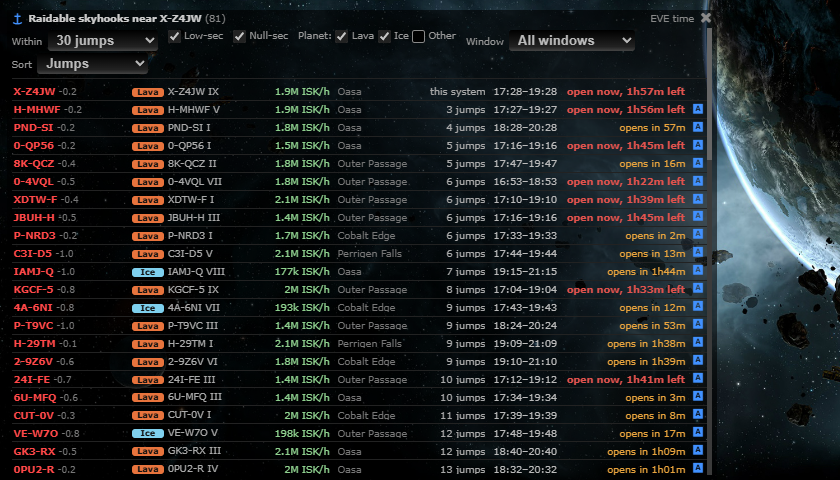
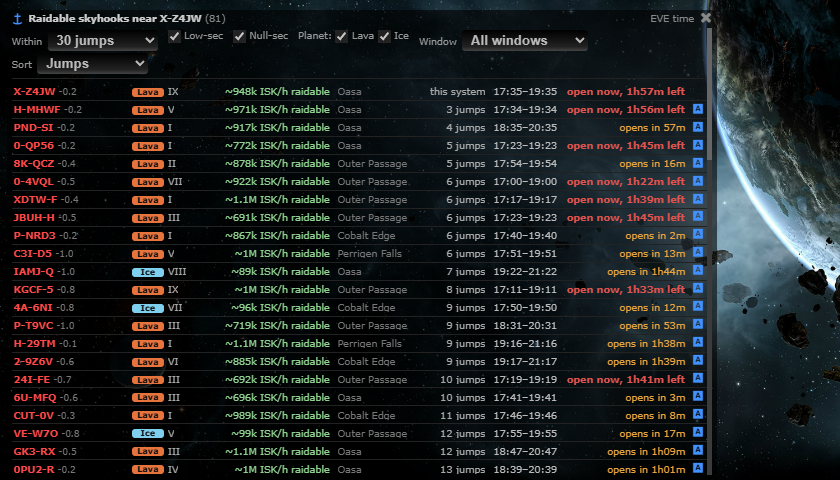
Skyhooks planet value: show the raidable half, unknown planets never hidden, generator records SDE build, load-failure note

diff --git a/app/js/fork/skyhooks-panel.js b/app/js/fork/skyhooks-panel.js
@@ -7,7 +7,7 @@ const skyhooksPanel = {
 	// 15 minutes per IP). Jumps use guidance's costs (the user's route security preference and avoid list). Saved per user in
 	// options.skyhooksPanel = {enabled (the icon), clickOpen, maxJumps, low, null, window, soonHours, sort, position}; a
 	// missing key means the default (icon on, opens on click, 10 jumps, low-sec and null-sec, opens within 2 h, by jumps).
-	// Also {lava, ice, other} (planet filter; lava and ice on) and sort "value": planet type, name and yield come from the static
+	// Also {lava, ice} (planet filter; both on) and sort "value": planet type, name and yield come from the static
 	// public/skyhooks-data/planets.json (SDE), see planetInfo.
 	// Keep `const skyhooksPanel` on the first line: the test helper strips it to define a global.
 	WIDGET_ID: "skyhooksWidget",
@@ -18,7 +18,7 @@ const skyhooksPanel = {
 	REDRAW_MS: 30000,
 	DEFAULT_SIZE: { x: 12, y: 8 },
 	MIN_SIZE: { x: 5, y: 3 },
-	DEFAULTS: { enabled: true, clickOpen: true, maxJumps: 10, low: true, null: true, lava: true, ice: true, other: false, window: "soon", soonHours: 2, sort: "jumps" },
+	DEFAULTS: { enabled: true, clickOpen: true, maxJumps: 10, low: true, null: true, lava: true, ice: true, window: "soon", soonHours: 2, sort: "jumps" },
 	MAX_JUMPS_CHOICES: [3, 5, 10, 15, 20, 30],
 	MAX_SEARCH_JUMPS: 60,       // "any distance" still stops here
 	WINDOWS: ["now", "soon", "all"],
@@ -49,7 +49,6 @@ const skyhooksPanel = {
 			null: s.null !== false,
 			lava: s.lava !== false,
 			ice: s.ice !== false,
-			other: s.other === true,
 			window: skyhooksPanel.WINDOWS.indexOf(s.window) >= 0 ? s.window : d.window,
 			soonHours: isFinite(soonHours) && soonHours > 0 && soonHours <= 168 ? soonHours : d.soonHours,
 			sort: skyhooksPanel.SORTS.indexOf(s.sort) >= 0 ? s.sort : d.sort
@@ -134,30 +133,31 @@ const skyhooksPanel = {
 		return out;
 	},
 
-	/** {kind: "lava"|"ice"|"other"|"unknown", name (system + roman number, "" when unknown), reagent, perHour, isk} for a planet;
+	/** {kind: "lava"|"ice"|"unknown", name (system + roman number, "" when unknown), number (the roman number), reagent, perHour, isk} for a planet;
 	isk = estimated ISK per hour of all the reagent the planet produces (half of it ends up in the raidable surplus bay).
-	@param planets the parsed planets.json (null while it isn't loaded: kind is then "unknown") */
+	A planet the list doesn't know (or no list yet) is "unknown": never hidden by the Planet filter.
+	@param planets the parsed planets.json (null while it isn't loaded) */
 	planetInfo: function(planets, planetID, systemName) {
-		if (!planets || typeof planets !== "object" || !planets.planets) { return { kind: "unknown", name: "", reagent: "", perHour: 0, isk: 0 }; }
+		if (!planets || typeof planets !== "object" || !planets.planets) { return { kind: "unknown", name: "", number: "", reagent: "", perHour: 0, isk: 0 }; }
 		const p = planets.planets[planetID];
 		const reagent = p && planets.reagents ? planets.reagents[p[0]] : null;
-		if (!p || !reagent || (p[0] !== 1 && p[0] !== 2)) { return { kind: "other", name: "", reagent: "", perHour: 0, isk: 0 }; }
+		if (!p || !reagent || (p[0] !== 1 && p[0] !== 2)) { return { kind: "unknown", name: "", number: "", reagent: "", perHour: 0, isk: 0 }; }
 		const perHour = Number(p[1]) || 0;
 		const numeral = skyhooksPanel.roman(p[2]);
 		return {
 			kind: p[0] === 1 ? "lava" : "ice",
 			name: systemName && numeral ? systemName + " " + numeral : "",
+			number: numeral,
 			reagent: String(reagent.name || ""),
 			perHour: perHour,
 			isk: perHour * (Number(reagent.price) || 0)
 		};
 	},
 
-	/** Whether a planet kind passes the lava / ice / other checkboxes (not yet known: always) */
+	/** Whether a planet kind passes the lava / ice checkboxes (an unknown planet: always) */
 	planetPasses: function(kind, settings) {
 		if (kind === "lava") { return settings.lava; }
 		if (kind === "ice") { return settings.ice; }
-		if (kind === "other") { return settings.other; }
 		return true;
 	},
 
@@ -335,7 +335,7 @@ const skyhooksPanel = {
 		if (unavailable) { return { kind: "unavailable", text: "Skyhook data unavailable." }; }
 		if (!count) { return { kind: "none", text: "No raidable skyhooks right now." }; }
 		if (!exits || !exits.length) { return { kind: "noexits", text: "No k-space exit on your chain yet: jumps are counted from the chain's k-space systems." }; }
-		return { kind: "filtered", text: "No raidable skyhook matches your options (" + (settings.maxJumps > 0 ? "within " + settings.maxJumps + " jumps" : "any distance") + "). Widen them above." };
+		return { kind: "filtered", text: "No raidable skyhook matches your options (" + (settings.maxJumps > 0 ? "within " + settings.maxJumps + " jumps" : "any distance") + (!settings.lava || !settings.ice ? ", " + (!settings.lava && !settings.ice ? "no planet type" : settings.lava ? "lava only" : "ice only") + " (Planet filter)" : "") + "). Widen them above." };
 	}
 };
 
@@ -344,6 +344,7 @@ if (typeof window !== "undefined" && typeof document !== "undefined" && typeof j
 		const sp = skyhooksPanel;
 		let planets = null;       // public/skyhooks-data/planets.json once loaded
 		let planetsLoading = false;
+		let planetsFailed = false;
 		let data = null;          // last answer of skyhooks.php: {skyhooks, fetched, stale, error}
 		let loadError = null;     // text when the last request failed
 		let skew = 0;             // server time - browser time, seconds
@@ -395,7 +396,9 @@ if (typeof window !== "undefined" && typeof document !== "undefined" && typeof j
 			if (planets || planetsLoading) { return; }
 			planetsLoading = true;
 			$.ajax({ url: sp.PLANETS_URL, dataType: "json", cache: true }).done(function(d) {
-				if (d && d.planets && typeof d.planets === "object") { planets = d; }
+				if (d && d.planets && typeof d.planets === "object") { planets = d; planetsFailed = false; } else { planetsFailed = true; }
+			}).fail(function() {
+				planetsFailed = true;
 			}).always(function() {
 				planetsLoading = false;
 				render();
@@ -434,10 +437,10 @@ if (typeof window !== "undefined" && typeof document !== "undefined" && typeof j
 				+ "<label title='Gate jumps from this system'>Within " + selectHtml("sky-max", jumpChoices, s.maxJumps) + "</label>"
 				+ "<label><input type='checkbox' class='sky-low'" + (s.low ? " checked" : "") + " /> Low-sec</label>"
 				+ "<label><input type='checkbox' class='sky-null'" + (s.null ? " checked" : "") + " /> Null-sec</label>"
-				+ "<span class='sky-planets' title='Lava planets give Magmatic Gas, ice planets Superionic Ice; other planets give no reagents'>Planet:"
+				+ "<span class='sky-planets' title='Lava planets give Magmatic Gas, ice planets Superionic Ice'>Planet:"
 				+ " <label><input type='checkbox' class='sky-lava'" + (s.lava ? " checked" : "") + " /> Lava</label>"
 				+ " <label><input type='checkbox' class='sky-ice'" + (s.ice ? " checked" : "") + " /> Ice</label>"
-				+ " <label><input type='checkbox' class='sky-other'" + (s.other ? " checked" : "") + " /> Other</label></span>"
+				+ "</span>"
 				+ "<label>Window " + selectHtml("sky-window", windowChoices, s.window)
 				+ (s.window === "soon" ? " " + selectHtml("sky-hours", sp.SOON_HOURS_CHOICES.map(function(h) { return [h, h + " h"]; }), s.soonHours) : "") + "</label>"
 				+ "<label>Sort " + selectHtml("sky-sort", [["jumps", "Jumps"], ["start", "Window start"], ["value", "Value"]], s.sort) + "</label>"
@@ -463,17 +466,17 @@ if (typeof window !== "undefined" && typeof document !== "undefined" && typeof j
 			const originName = (systemFor(origin) || {}).name || origin;
 			const secText = isFinite(Number(sys.security)) ? (Math.round(Number(sys.security) * 10) / 10 || 0).toFixed(1) : "";
 			const pl = r.planet || { kind: "unknown" };
-			const planetName = pl.name || (pl.kind === "other" ? "no reagents" : "");
+			const planetName = pl.number;	// the system's name is in the first column already; the full name is the tooltip
 			const badge = pl.kind === "lava" || pl.kind === "ice"
 				? "<span class='sky-planet sky-planet-" + pl.kind + "' title='" + esc((pl.kind === "lava" ? "Lava" : "Ice") + " planet: " + pl.reagent + ", " + pl.perHour.toLocaleString("en-US") + " units/hour. About half of it sits in the raidable surplus bay.") + "'>" + (pl.kind === "lava" ? "Lava" : "Ice") + "</span>"
-				: (pl.kind === "other" ? "<span class='sky-planet sky-planet-other' title='This planet gives power or workforce, no reagents to steal'>Other</span>" : "");
+				: "";
 			const value = pl.isk > 0
-				? "<span class='sky-value' title='" + esc(pl.reagent + ": " + pl.perHour.toLocaleString("en-US") + " units/hour at about " + sp.formatIsk(pl.isk / pl.perHour) + " ISK each (CCP average price). Half of it goes to the raidable surplus bay.") + "'>" + esc(sp.formatIsk(pl.isk)) + " ISK/h</span>"
+				? "<span class='sky-value' title='" + esc(pl.reagent + ": " + pl.perHour.toLocaleString("en-US") + " units/hour at about " + sp.formatIsk(pl.isk / pl.perHour) + " ISK each. The whole planet makes about " + sp.formatIsk(pl.isk) + " ISK/h; half of it goes to the raidable surplus bay. Estimate: CCP average price, SDE yield.") + "'>~" + esc(sp.formatIsk(pl.isk / 2)) + " ISK/h raidable</span>"
 				: "<span class='sky-value'></span>";
 			return "<li class='sky-row sky-" + st.state + "' data-systemid='" + esc(r.skyhook.systemID) + "' data-planet='" + esc(r.skyhook.planetID) + "'>"
 				+ "<span class='sky-system'><a class='" + esc(sys.systemTypeClass) + "' href='.?system=" + esc(encodeURIComponent(sys.name)) + "' title='View " + esc(sys.name) + "'>" + esc(sys.name || r.skyhook.systemID) + "</a>"
 				+ " <span class='sky-sec sky-sec-" + esc(sec) + "'>" + esc(secText) + "</span></span>"
-				+ "<span class='sky-planetcell'>" + badge + (planetName ? " <span class='sky-planetname'>" + esc(planetName) + "</span>" : "") + "</span>"
+				+ "<span class='sky-planetcell'" + (pl.name ? " title='" + esc("Planet " + pl.name) + "'" : "") + ">" + badge + (planetName ? " <span class='sky-planetname'>" + esc(planetName) + "</span>" : "") + "</span>"
 				+ value
 				+ "<span class='sky-region' title='" + esc(region) + "'>" + esc(region) + "</span>"
 				+ "<span class='sky-exit' title='Gate jumps from " + esc(originName) + "'>" + (r.nearest.jumps === 0 ? "this system" : r.nearest.jumps + (r.nearest.jumps === 1 ? " jump" : " jumps")) + "</span>"
@@ -513,6 +516,7 @@ if (typeof window !== "undefined" && typeof document !== "undefined" && typeof j
 			if (loadError) { notes.push(loadError + " Showing the last list."); }
 			else if (data.error && data.stale && !data.unavailable) { notes.push("ESI is not answering: this list is from " + sp.duration(t - data.fetched) + " ago."); }
 			else if (data.unavailable && data.error) { notes.push(data.error); }
+			if (planetsFailed && !planets) { notes.push("Planet details (lava / ice, value) could not be loaded."); }
 			if (!rows.length) { const empty = sp.emptyState(data.skyhooks.length, [{}], s, data.unavailable); notes.push(empty.text); }
 			$status.html(notes.map(sp.escape).join("<br/>")).toggleClass("sky-error", !!(loadError || data.unavailable || (data.error && data.stale)));
 			$list.html(rows.map(function(r) { return rowHtml(r, t); }).join(""));
@@ -677,7 +681,6 @@ if (typeof window !== "undefined" && typeof document !== "undefined" && typeof j
 			$doc.on("change", sel + " .sky-null", function() { save({ null: this.checked }); render(); });
 			$doc.on("change", sel + " .sky-lava", function() { save({ lava: this.checked }); render(); });
 			$doc.on("change", sel + " .sky-ice", function() { save({ ice: this.checked }); render(); });
-			$doc.on("change", sel + " .sky-other", function() { save({ other: this.checked }); render(); });
 			$doc.on("change", sel + " .sky-window", function() { save({ window: $(this).val() }); render(); });
 			$doc.on("change", sel + " .sky-hours", function() { save({ soonHours: Number($(this).val()) }); render(); });
 			$doc.on("change", sel + " .sky-sort", function() { save({ sort: $(this).val() }); render(); });

diff --git a/app/js-test/fork/skyhooks-panel.test.js b/app/js-test/fork/skyhooks-panel.test.js
@@ -13,9 +13,9 @@ const S = saved => skyhooksPanel.settings(saved);
 
 describe('Skyhooks panel', () => {
 	describe('settings', () => {
-		it('defaults', () => assert.deepEqual(S(undefined), { enabled: true, clickOpen: true, maxJumps: 10, low: true, null: true, lava: true, ice: true, other: false, window: 'soon', soonHours: 2, sort: 'jumps' }));
-		it('keeps valid values', () => assert.deepEqual(S({ enabled: false, clickOpen: false, maxJumps: 5, low: false, null: true, lava: false, ice: false, other: true, window: 'now', soonHours: 4, sort: 'value' }),
-			{ enabled: false, clickOpen: false, maxJumps: 5, low: false, null: true, lava: false, ice: false, other: true, window: 'now', soonHours: 4, sort: 'value' }));
+		it('defaults', () => assert.deepEqual(S(undefined), { enabled: true, clickOpen: true, maxJumps: 10, low: true, null: true, lava: true, ice: true, window: 'soon', soonHours: 2, sort: 'jumps' }));
+		it('keeps valid values', () => assert.deepEqual(S({ enabled: false, clickOpen: false, maxJumps: 5, low: false, null: true, lava: false, ice: false, window: 'now', soonHours: 4, sort: 'value' }),
+			{ enabled: false, clickOpen: false, maxJumps: 5, low: false, null: true, lava: false, ice: false, window: 'now', soonHours: 4, sort: 'value' }));
 		it('0 means any distance', () => assert.equal(S({ maxJumps: 0 }).maxJumps, 0));
 		it('rejects nonsense', () => assert.deepEqual(S({ maxJumps: -3, window: 'x', soonHours: 'abc', sort: 5 }), S({})));
 		it('string numbers from a select', () => assert.equal(S({ maxJumps: '15' }).maxJumps, 15));
@@ -282,6 +282,12 @@ describe('Skyhooks panel', () => {
 	describe('empty state', () => {
 		it('nothing from the server', () => assert.equal(skyhooksPanel.emptyState(0, [{}], S({})).kind, 'none'));
 		it('no exits', () => assert.equal(skyhooksPanel.emptyState(50, [], S({})).kind, 'noexits'));
+		it('filtered by the planet filter says so', () => {
+			assert.ok(skyhooksPanel.emptyState(3, [{}], S({ lava: false }), false).text.indexOf('ice only') > 0);
+			assert.ok(skyhooksPanel.emptyState(3, [{}], S({ ice: false }), false).text.indexOf('lava only') > 0);
+			assert.ok(skyhooksPanel.emptyState(3, [{}], S({ lava: false, ice: false }), false).text.indexOf('no planet type') > 0);
+			assert.equal(skyhooksPanel.emptyState(3, [{}], S({}), false).text.indexOf('Planet filter'), -1);
+		});
 		it('filtered out', () => {
 			const e = skyhooksPanel.emptyState(50, [{}], S({ maxJumps: 5 }));
 			assert.equal(e.kind, 'filtered');
@@ -308,7 +314,7 @@ describe('Skyhooks panel', () => {
 			assert.equal(skyhooksPanel.roman('x'), '');
 		});
 		it('lava planet: name, reagent, yield and value', () => {
-			assert.deepEqual(info(100, 'K4YZ-Y'), { kind: 'lava', name: 'K4YZ-Y IV', reagent: 'Magmatic Gas', perHour: 1000, isk: 2000000 });
+			assert.deepEqual(info(100, 'K4YZ-Y'), { kind: 'lava', name: 'K4YZ-Y IV', number: 'IV', reagent: 'Magmatic Gas', perHour: 1000, isk: 2000000 });
 		});
 		it('ice planet', () => {
 			const i = info(101, 'Tama');
@@ -317,19 +323,17 @@ describe('Skyhooks panel', () => {
 			assert.equal(i.isk, 200000);
 		});
 		it('no system name: no planet name', () => assert.equal(info(100).name, ''));
-		it('a planet that is not in the list gives no reagents: other', () => assert.deepEqual(info(999, 'X'), { kind: 'other', name: '', reagent: '', perHour: 0, isk: 0 }));
+		it('a planet that is not in the list is unknown', () => assert.deepEqual(info(999, 'X'), { kind: 'unknown', name: '', number: '', reagent: '', perHour: 0, isk: 0 }));
 		it('data not loaded: unknown', () => {
 			assert.equal(skyhooksPanel.planetInfo(null, 100, 'X').kind, 'unknown');
 			assert.equal(skyhooksPanel.planetInfo({}, 100, 'X').kind, 'unknown');
 		});
-		it('damaged entries are other', () => assert.equal(skyhooksPanel.planetInfo({ reagents: {}, planets: { 5: [1, 3, 1] } }, 5, 'X').kind, 'other'));
-		it('checkboxes: lava and ice on, other off by default', () => {
+		it('damaged entries are unknown', () => assert.equal(skyhooksPanel.planetInfo({ reagents: {}, planets: { 5: [1, 3, 1] } }, 5, 'X').kind, 'unknown'));
+		it('checkboxes: lava and ice on by default', () => {
 			assert.equal(skyhooksPanel.planetPasses('lava', S({})), true);
 			assert.equal(skyhooksPanel.planetPasses('ice', S({})), true);
-			assert.equal(skyhooksPanel.planetPasses('other', S({})), false);
 			assert.equal(skyhooksPanel.planetPasses('lava', S({ lava: false })), false);
 			assert.equal(skyhooksPanel.planetPasses('ice', S({ ice: false })), false);
-			assert.equal(skyhooksPanel.planetPasses('other', S({ other: true })), true);
 		});
 		it('unknown planet kind is never hidden (list not loaded yet)', () => assert.equal(skyhooksPanel.planetPasses('unknown', S({ lava: false, ice: false })), true));
 		it('formatIsk', () => {
@@ -346,28 +350,25 @@ describe('Skyhooks panel', () => {
 			const sys = id => Object.assign({ name: 'S' + id }, systems[id]);
 			const rows = (saved, p) => skyhooksPanel.rows(list, sys, id => near[id], T, S(saved), p === undefined ? planets : p);
 
-			it('default: lava and ice, planets without reagents hidden', () => {
-				assert.deepEqual(rows({}).map(r => r.skyhook.planetID), [101, 102, 100]);
+			it('default: lava, ice and planets the list does not know', () => {
+				assert.deepEqual(rows({}).map(r => r.skyhook.planetID), [101, 102, 100, 999]);
 			});
 			it('rows carry the planet', () => {
 				const r = rows({})[2];
 				assert.equal(r.planet.kind, 'lava');
 				assert.equal(r.planet.name, 'S1 IV');
+				assert.equal(r.planet.number, 'IV');
 			});
-			it('lava off', () => assert.deepEqual(rows({ lava: false }).map(r => r.skyhook.planetID), [101]));
-			it('ice off', () => assert.deepEqual(rows({ ice: false }).map(r => r.skyhook.planetID), [102, 100]));
-			it('other on', () => assert.deepEqual(rows({ other: true }).map(r => r.skyhook.planetID), [101, 102, 100, 999]));
-			it('all off: nothing (but other planets with other on)', () => {
-				assert.deepEqual(rows({ lava: false, ice: false }), []);
-				assert.deepEqual(rows({ lava: false, ice: false, other: true }).map(r => r.skyhook.planetID), [999]);
-			});
+			it('lava off (unknown planets stay)', () => assert.deepEqual(rows({ lava: false }).map(r => r.skyhook.planetID), [101, 999]));
+			it('ice off', () => assert.deepEqual(rows({ ice: false }).map(r => r.skyhook.planetID), [102, 100, 999]));
+			it('both off: only unknown planets are left', () => assert.deepEqual(rows({ lava: false, ice: false }).map(r => r.skyhook.planetID), [999]));
 			it('planet data not loaded: no planet filter', () => {
 				const r = rows({ lava: false, ice: false }, null);
 				assert.equal(r.length, 4);
 				assert.equal(r[0].planet.kind, 'unknown');
 			});
 			it('sort by value: highest ISK first, then jumps', () => {
-				assert.deepEqual(rows({ sort: 'value', other: true }).map(r => r.skyhook.planetID), [100, 102, 101, 999]);
+				assert.deepEqual(rows({ sort: 'value' }).map(r => r.skyhook.planetID), [100, 102, 101, 999]);
 			});
 			it('value sort needs no planet data (ties by jumps)', () => {
 				assert.deepEqual(rows({ sort: 'value' }, null).map(r => r.skyhook.planetID), [101, 102, 100, 999]);

diff --git a/app/css/fork/skyhooks-panel.css b/app/css/fork/skyhooks-panel.css
@@ -171,7 +171,7 @@
 
 #skyhooksWidget .sky-planetcell {
 	flex: 0 0 auto;
-	min-width: 118px;
+	min-width: 78px;
 	overflow: hidden;
 	text-overflow: ellipsis;
 }
@@ -195,18 +195,18 @@
 	background: #7fd0ee;
 }
 
-#skyhooksWidget .sky-planet-other {
-	background: #666;
-	color: #DDD;
-}
-
 #skyhooksWidget .sky-planetname {
+	display: inline-block;
+	max-width: 4em;
+	overflow: hidden;
+	text-overflow: ellipsis;
+	vertical-align: bottom;
 	color: #AAA;
 }
 
 #skyhooksWidget .sky-value {
 	flex: 0 0 auto;
-	min-width: 72px;
+	min-width: 112px;
 	text-align: right;
 	color: #8fd18f;
 }

diff --git a/changes/2026-10-11-skyhooks-planet-value/README.md b/changes/2026-10-11-skyhooks-planet-value/README.md
@@ -5,8 +5,8 @@
 ## Description
 
 Each row of the Raidable skyhooks box now says whether the planet is lava or ice (a coloured badge with the word in it),
-shows the planet's name, and an estimated value in ISK per hour of what the planet produces. New "Planet" checkboxes
-(Lava, Ice, Other) filter the list and "Value" is a new sort. Stacked on PR #67 (`feature/rolling-followups`).
+shows the planet's name, and the estimated ISK per hour that is raidable ("~1.1M ISK/h raidable": half of what the planet
+produces, the surplus bay). New "Planet" checkboxes (Lava, Ice) filter the list and "Value" is a new sort. Stacked on PR #67 (`feature/rolling-followups`).
 
 ## Before / After
 
@@ -15,13 +15,13 @@ shows the planet's name, and an estimated value in ISK per hour of what the plan
 | ![before](before.png) | ![after](after.png) |
 
 (Same stubbed list of 81 live skyhooks, 30 jumps from X-Z4JW, sorted by jumps. After: Lava / Ice badge, planet name and
-ISK/h on every row, and the Planet checkboxes and Value sort in the box header.)
+"ISK/h raidable" on every row, and the Planet checkboxes and Value sort in the box header.)
 
 ## Settings
 
 No new Settings row: the box's existing Settings > Routes & Navigation toggle ("Skyhook icon") still switches the whole
 feature. The new options live in the box header like the others and are saved in `options.skyhooksPanel` (`lava`, `ice`
-default on, `other` default off; `sort: "value"`); Reset deletes them with the rest.
+default on; `sort: "value"`); Reset deletes them with the rest.
 
 ## Change
 
@@ -30,13 +30,20 @@ default on, `other` default off; `sort: "value"`); Reset deletes them with the r
   this gives lava/ice, the name and the yield for every planet, so no `/universe/planets/{id}` fetch or server cache is
   needed (planet data never changes; ESI and the SDE agree, spot-checked on 4 planets). `tools/fork/build-skyhook-planets.mjs`
   generates `public/skyhooks-data/planets.json` (3,462 planets, 72 KB): `{planetID: [1 lava | 2 ice, units per hour,
-  planet number]}` plus the two reagents with a rough ISK price. The panel loads it once when the box opens.
+  planet number]}` plus the two reagents with a rough ISK price and the SDE build and date it came from. The panel loads it
+  once when the box opens. Regenerate (SDE build 3586130 on 2026-10-11; the generator prints the counts of skipped rows to
+  stderr: 22,336 power / workforce planets, nothing else):
+  `node tools/fork/build-skyhook-planets.mjs <dir with planetResources.jsonl + mapPlanets.jsonl> 2031.68 5208.25 3586130 2026-10-11 > public/skyhooks-data/planets.json`.
   Planet name = system name + roman planet number (so "K4YZ-Y IV", as ESI gives).
 - **Panel** (`app/js/fork/skyhooks-panel.js`, `.css`): planet badge (Lava orange / Ice blue, text as well as colour),
-  planet name, `X ISK/h` (hover: reagent, units per hour, price). Planet filter checkboxes, sort "Value" (highest first).
-  A planet missing from the file shows as "Other" (hidden by default: it produces no reagents, so there is nothing to
-  steal). While the file isn't loaded rows show no planet details and the planet filter is skipped.
-- **Value = units per hour x price**, the planet's whole production; only half of it goes to the raidable surplus bay.
+  planet name (ellipsis when long), `~X ISK/h raidable` (hover: reagent, units per hour, price, whole-planet figure, "estimate:
+  CCP average price, SDE yield"). Planet filter checkboxes (Lava, Ice), sort "Value" (highest first, by the same figure).
+  A planet missing from the file (none of the 202 live skyhooks) is "unknown": no badge or value and never hidden by the
+  Planet filter (so there is no "Other" checkbox). While the file isn't loaded rows show no planet details and the filter is
+  skipped; if it can't be loaded the box says so in one line. When the Planet filter hides everything the empty-state text
+  says so. At the box's minimum size the row scrolls horizontally like before (the box content already did).
+- **Value = units per hour x price**; the row shows half of it (the planet's whole production is split between the secure
+  bay and the raidable surplus bay).
   The price is a fixed rough number baked into the file (CCP's `average_price` from `GET /markets/prices` on 2026-10-11:
   Magmatic Gas 2,032 ISK, Superionic Ice 5,208 ISK). Regenerate the file to refresh.
 - **Tests**: `app/js-test/fork/skyhooks-panel.test.js` (planet info, roman numerals, filters, defaults, value sort, data
